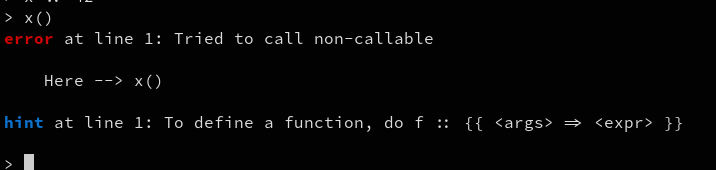
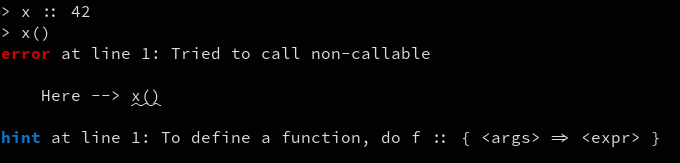
update error message when invoking non-callable

diff --git a/src/eval.cpp b/src/eval.cpp
@@ -209,7 +209,7 @@ interpreter::visit_call_expression(ast::call_expression& cexpr)
         interp_error(cexpr.span_, "Tried to call non-callable");
         interp_hint(
             cexpr.span_,
-            "To define a function, do f :: {{ <args> => <expr> }}");
+            "To define a function, do f :: { <args> => <expr> }");
         return nullptr;
     }
 

diff --git a/README.md b/README.md
@@ -5,6 +5,10 @@
 Gaya is a scripting language I made for doing AoC problems in 2023.
 The name comes from my favourite cat.
 
+Since its a toy language, its focus is on elegance above anything else. I
+wanted something that makes me feel pleasure every time I use it. I hope this
+way I can give pleasure to you too.
+
 #### Features
 
 <p align="center">
